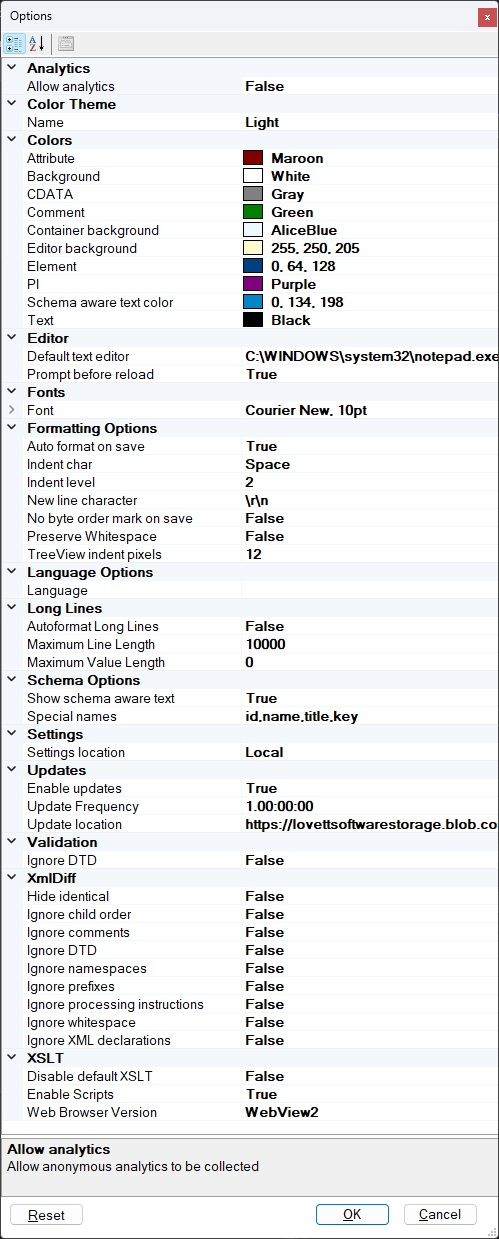
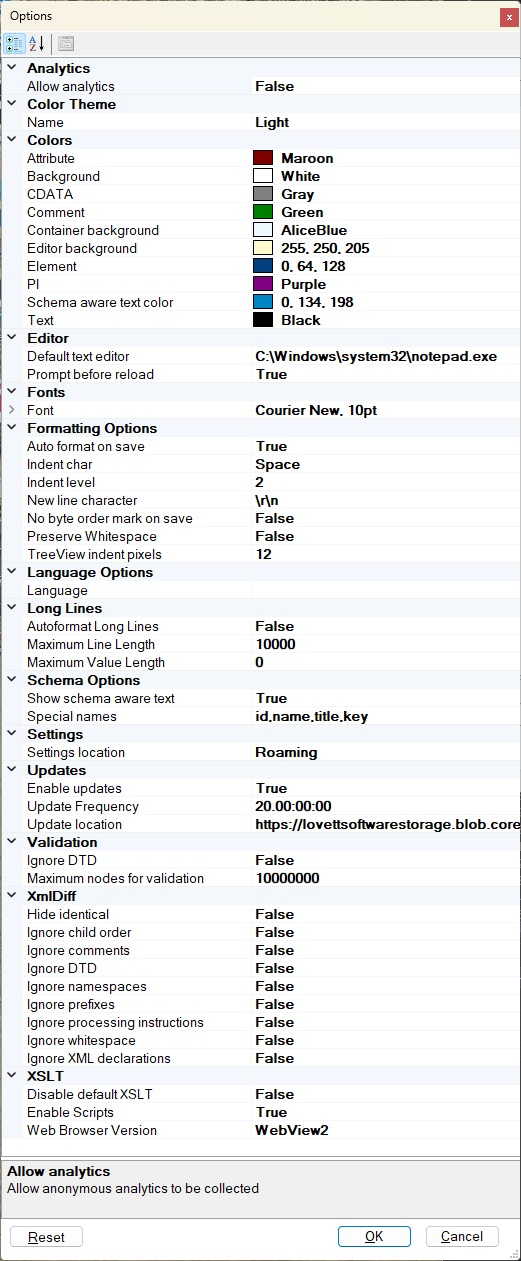
Fix issue 329: Incomplete schema validation of large XML files ( > ~20 MB)

Changed region(s): [[0.0, 0.0, 1.0, 1.0], [0.6313, 0.9508, 0.9619, 1.0], [0.992, 0.7667, 1.0, 0.7974]]

diff --git a/src/Application/FormOptions.cs b/src/Application/FormOptions.cs
@@ -219,6 +219,7 @@ namespace XmlNotepad
             private string _language;
             private int _maximumLineLength;
             private int _maximumValueLength;
+            private long _maximumLineIndex;
             private bool _autoFormatLongLines;
             private bool _ignoreDTD;
             private bool _enableXsltScripts;
@@ -263,6 +264,7 @@ namespace XmlNotepad
                 _schemaAwareNames = this._settings.GetString("SchemaAwareNames");
                 _maximumLineLength = this._settings.GetInteger("MaximumLineLength");
                 _autoFormatLongLines = this._settings.GetBoolean("AutoFormatLongLines");
+                _maximumLineIndex = this._settings.GetLong("MaximumLineIndex");
                 _ignoreDTD = this._settings.GetBoolean("IgnoreDTD");
                 _enableXsltScripts = this._settings.GetBoolean("EnableXsltScripts");
                 _webBrowser = (this._settings.GetString("BrowserVersion") == "WebBrowser") ? WebBrowserVersion.WinformsWebBrowser : WebBrowserVersion.WebView2;
@@ -365,6 +367,7 @@ namespace XmlNotepad
                 this._settings["MaximumLineLength"] = this._maximumLineLength;
                 this._settings["MaximumValueLength"] = this._maximumValueLength;
                 this._settings["AutoFormatLongLines"] = this._autoFormatLongLines;
+                this._settings["MaximumLineIndex"]  = this._maximumLineIndex;
                 this._settings["IgnoreDTD"] = this._ignoreDTD;
 
                 this._settings["EnableXsltScripts"] = this._enableXsltScripts;
@@ -408,6 +411,7 @@ namespace XmlNotepad
                 _language = "";
                 this._maximumLineLength = 10000;
                 this._maximumValueLength = short.MaxValue;
+                this._maximumLineIndex = 1000000;
                 _ignoreDTD = false;
                 this._allowAnalytics = false;
                 this._promptOnReload = true;
@@ -896,6 +900,20 @@ namespace XmlNotepad
                 }
             }
 
+            [SRCategory("Validation")]
+            [LocDisplayName("MaximumLineIndexProperty")]
+            [SRDescription("MaximumLineIndexDescription")]
+            public long MaximumLineIndex
+            {
+                get
+                {
+                    return this._maximumLineIndex;
+                }
+                set
+                {
+                    this._maximumLineIndex = value;
+                }
+            }
 
             [SRCategory("XsltCategory")]
             [LocDisplayName("EnableXsltScriptsPropertyName")]

diff --git a/src/XmlNotepad/StringResources.Designer.cs b/src/XmlNotepad/StringResources.Designer.cs
@@ -940,6 +940,25 @@ namespace XmlNotepad {
         }
         
         /// <summary>
+        ///   Looks up a localized string similar to Maximum number of nodes that have indexed line and column information so validation errors can be linked to those lines.
+        ///    This is limited because it takes a lot of extra memory and can make editing very large XML files slower..
+        /// </summary>
+        public static string MaximumLineIndexDescription {
+            get {
+                return ResourceManager.GetString("MaximumLineIndexDescription", resourceCulture);
+            }
+        }
+        
+        /// <summary>
+        ///   Looks up a localized string similar to Maximum nodes for validation.
+        /// </summary>
+        public static string MaximumLineIndexProperty {
+            get {
+                return ResourceManager.GetString("MaximumLineIndexProperty", resourceCulture);
+            }
+        }
+        
+        /// <summary>
         ///   Looks up a localized string similar to What is the maximum line length before prompting for reformatting?.
         /// </summary>
         public static string MaximumLineLengthDescription {

diff --git a/src/Model/DomLoader.cs b/src/Model/DomLoader.cs
@@ -20,12 +20,14 @@ namespace XmlNotepad
         private XmlReader _reader;
         private IServiceProvider _site;
         private SchemaCache _sc;
+        private long _maxLineIndex;
         private HashSet<string> _allNamespaces = new HashSet<string>();
 
         public DomLoader(IServiceProvider site, SchemaCache cache)
         {
             this._site = site;
             this._sc = cache;
+            this._maxLineIndex = Settings.Instance.GetLong("MaximumLineIndex");
         }
 
         public HashSet<string> AllNamespaces => _allNamespaces;
@@ -38,7 +40,7 @@ namespace XmlNotepad
                 _allNamespaces.Add(nsuri);
             }
             // stop these tables from eating up too much memory on very large XML documents.
-            if (this._lineInfos.Count < 1000000)
+            if (this._lineInfos.Count < _maxLineIndex)
             {
                 var info = new LineInfo(_reader);
                 info.Node = node;

diff --git a/src/Model/Settings.cs b/src/Model/Settings.cs
@@ -717,6 +717,14 @@ namespace XmlNotepad
             return settingValue is int value ? value : defaultValue;
         }
 
+        public long GetLong(string settingName, long defaultValue = 10000000)
+        {
+            object settingValue = this[settingName];
+            if (settingValue is int i)
+                return i;
+            return settingValue is long value ? value : defaultValue;
+        }
+
         public double GetDouble(string settingName, double defaultValue = 0)
         {
             object settingValue = this[settingName];
@@ -966,7 +974,9 @@ namespace XmlNotepad
             this["MaximumLineLength"] = 10000;
             this["MaximumValueLength"] = (int)short.MaxValue;
             this["AutoFormatLongLines"] = false;
+
             this["IgnoreDTD"] = false;
+            this["MaximumLineIndex"] = 1000000;
 
             // XSLT options
             this["BrowserVersion"] = "";

diff --git a/src/Model/Checker.cs b/src/Model/Checker.cs
@@ -487,7 +487,7 @@ namespace XmlNotepad
             for (int i = 0, n = text.Length; i < n; i++)
             {
                 char ch = text[i];
-                if ((ch < 20 && ch != 0x9 && ch != 0xa && ch != 0xd) || ch > 0xfffe)
+                if ((ch < 0x20 && ch != 0x9 && ch != 0xa && ch != 0xd) || ch > 0xfffe)
                 {
                     ReportError(Severity.Error, string.Format(Strings.InvalidCharacter, ((int)ch).ToString(), i), ctx);
                 }

diff --git a/docs/help/options.md b/docs/help/options.md
@@ -46,7 +46,9 @@ version of XML Notepad is available. You can set the update frequency, but only 
 frequency defined in the updates.xml file. See [Updates](updates.md) for more information on how this works.
 
 ### Validation
-You can turn off DTD validation.
+You can turn off DTD validation and you can modify the size of the node line/col index.
+This limit exists because it takes a lot of extra memory to index the location of every node in a
+large document and can make editing very large XML files slower.
 
 ### XmlDiff
 Options that control how the XmlDiff works when you compare XML documents.
